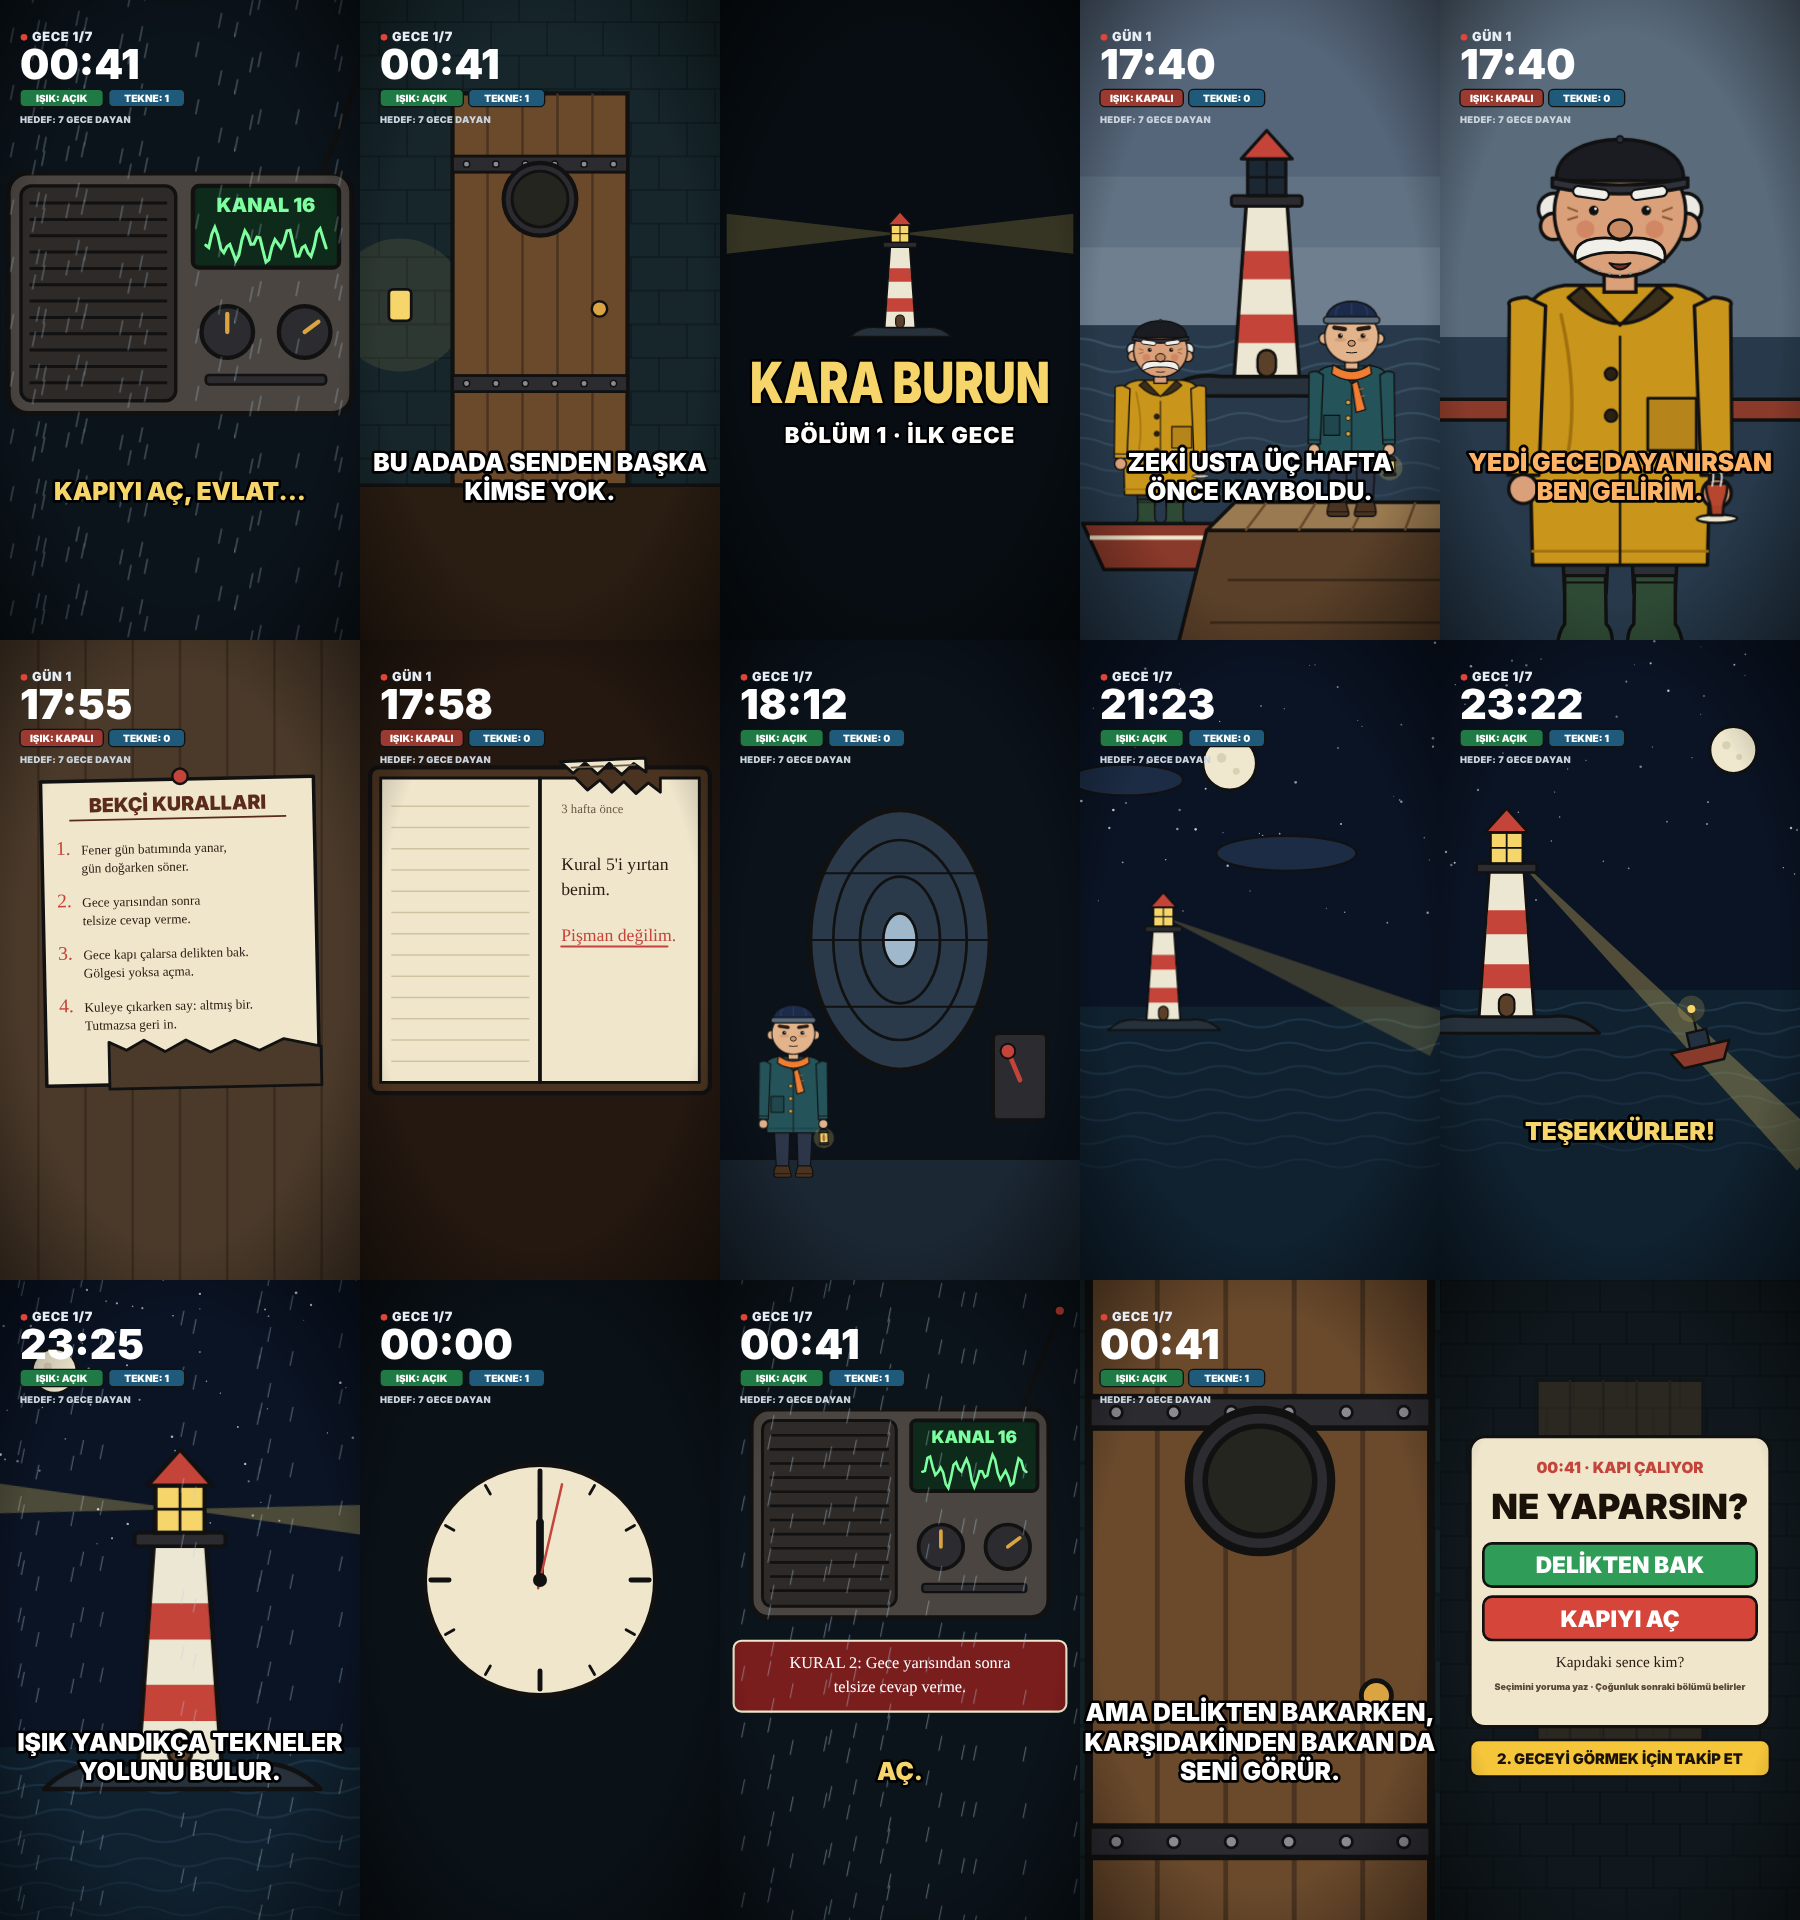
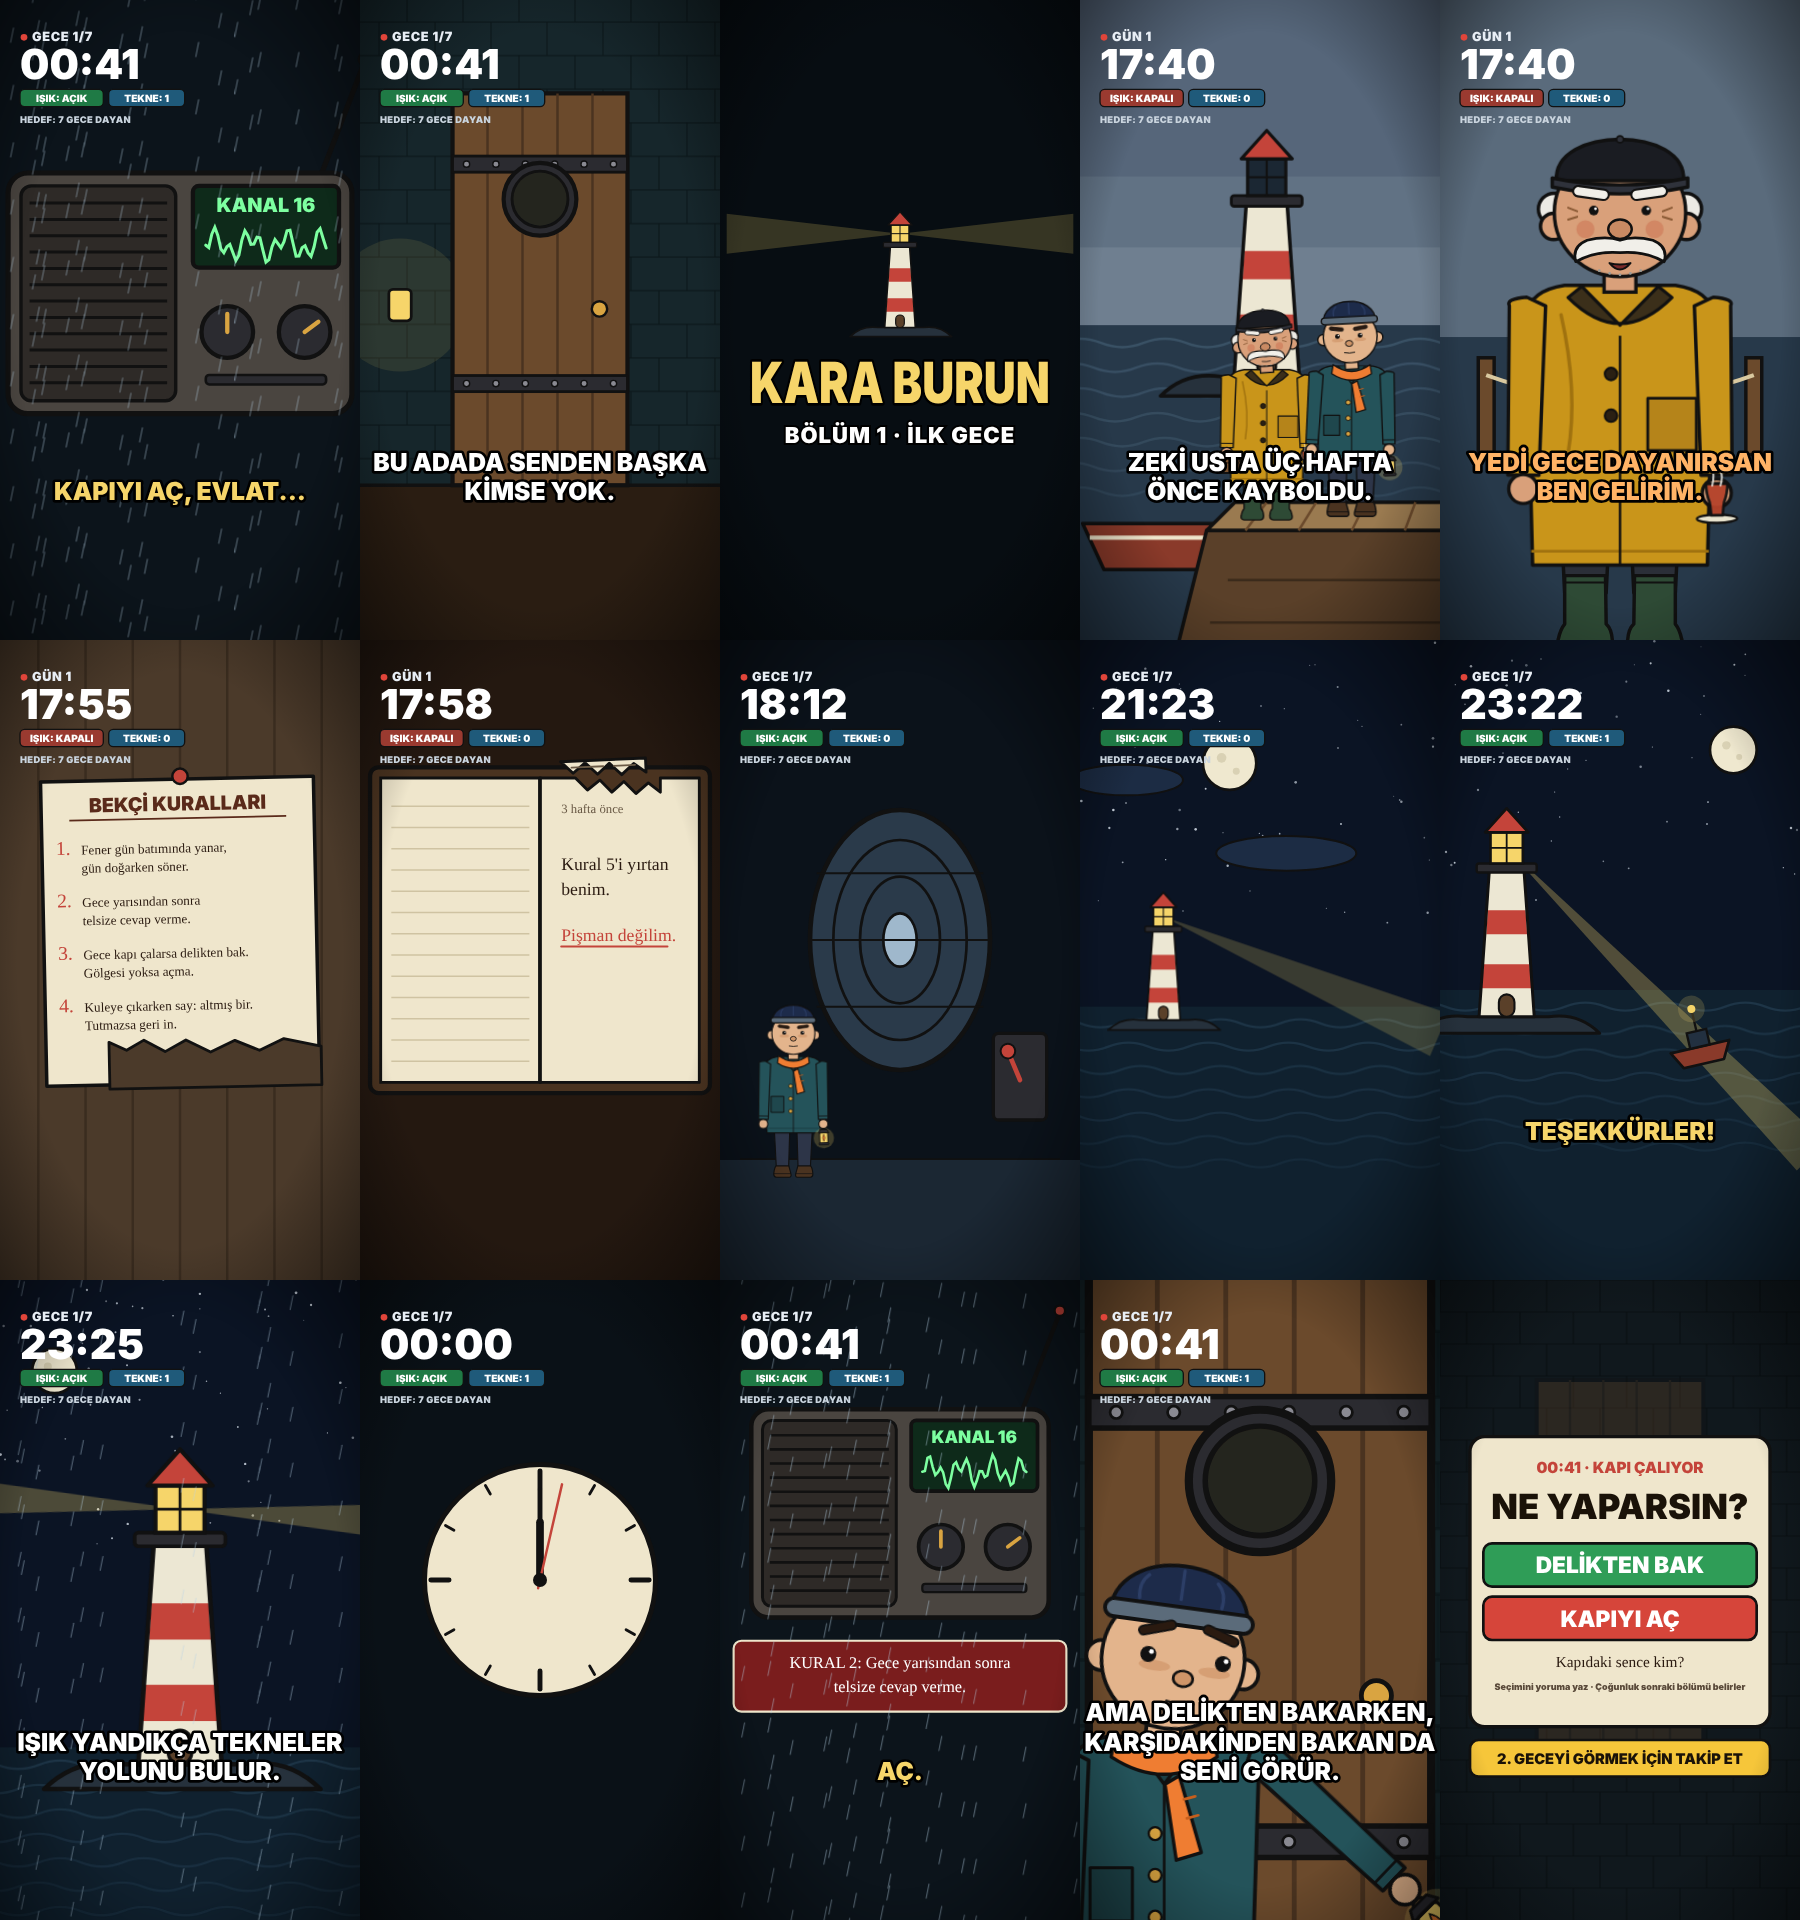
Kara Burun Bölüm 1: karakter pozları (Rigs.poz), Rıza iskeleye yürür, bekçi kapıya döner, deliğde Gölgesiz yüzü
Claude-Session: https://claude.ai/code/session_01LL2aFc3kDNuq4S6Wc9xmYN

diff --git a/story/bolum-01/sahne-cizim.js b/story/bolum-01/sahne-cizim.js
@@ -4,6 +4,8 @@
 const S=(window.BOLUM=window.BOLUM||{sahne:{}}).sahne,$=id=>document.getElementById(id),P=Cz.P;
 const clamp=(x,a,b)=>Math.max(a,Math.min(b,x)),fade=(id,lt,t0,d)=>{const e=$(id);if(e)e.setAttribute('opacity',clamp((lt-t0)/(d||.35),0,1))};
 const ease=x=>x<0?0:x>1?1:x*x*(3-2*x);
+/* anahtar kare ara değeri: K=[[t,{alan:değer}],…]; sayılar yumuşak geçer, metin/bool alanlar sonraki karede değişir */
+const kf=(K,t)=>{if(t<=K[0][0])return Object.assign({},K[0][1]);for(let i=1;i<K.length;i++)if(t<=K[i][0]){const[t0,a]=K[i-1],[t1,b]=K[i],u=ease((t-t0)/(t1-t0)),o={};Object.keys(b).forEach(k=>{const av=a[k]!==undefined?a[k]:b[k];o[k]=typeof b[k]==='number'?av+(b[k]-av)*u:(u>=1?b[k]:av)});return o}return Object.assign({},K[K.length-1][1])};
 const stars=(n,seed,ymax)=>{const r=Cz.rng(seed);let s='<g fill="#dfe8f2">';for(let i=0;i<n;i++)s+=`<circle cx="${(r()*1080).toFixed(0)}" cy="${(r()*ymax).toFixed(0)}" r="${(1.5+r()*2.5).toFixed(1)}" opacity="${(.4+r()*.5).toFixed(2)}"/>`;return s+'</g>'};
 const knock=(lt,ts,id,cx,cy,glow)=>{let dx=0,gl=.12;ts.forEach(t=>{const d=lt-t;if(d>0&&d<.3){dx+=Math.sin(d*70)*9*(1-d/.3);gl=Math.max(gl,.6*(1-d/.3))}});const k=$(id);if(k)k.setAttribute('transform',`translate(${cx+dx} ${cy})`);const e=$(glow);if(e)e.setAttribute('opacity',gl)};
 
@@ -25,21 +27,33 @@ S[3]={
   Cz.txt(540,1330,'BÖLÜM 1 · İLK GECE',{size:66,fill:'#fff',anchor:'middle',extra:'stroke="#000" stroke-width="12" paint-order="stroke fill" letter-spacing="3"'})},
  hook(lt,sc,g){g.style.opacity=Math.min(1,lt/.25)*Math.min(1,(sc.sure-lt)/.25)}};
 
-/* S4: ada ve iskele, Rıza teknede, bekçi iskelede */
+/* S4: ada ve iskele; Rıza tekneden iskeleye çıkar, bekçiye bagajı verir */
+let rigR4,rigB4;
 S[4]={zoom:[1,1.1,560,1050],
  ciz(g){
   g.innerHTML=Cz.duz('#56667a')+`<rect y="560" width="1080" height="420" fill="#6b7b8c" opacity=".55"/><rect y="760" width="1080" height="220" fill="#7d8c9b" opacity=".5"/>`+Cz.sea(980,'#27394a','#4e6b82')+Cz.tower(560,1180,1.0,false);
-  Rigs.reis(g,{x:260,y:1052,s:.4});
   g.insertAdjacentHTML('beforeend',`<path d="M40 1540 L470 1540 L420 1670 L100 1670 Z" fill="#8a3a2a" stroke="#111" stroke-width="10" stroke-linejoin="round"/><path d="M60 1580 H452" stroke="#efe6cc" stroke-width="12"/>
    <path d="M470 1480 L1080 1480 L1080 1560 L390 1560 Z" fill="#9a7a50" stroke="#111" stroke-width="10" stroke-linejoin="round"/><path d="M390 1560 L1080 1560 L1080 1920 L300 1920 Z" fill="#5a4029" stroke="#111" stroke-width="10" stroke-linejoin="round"/>
    <path d="M560 1480 L500 1560 M700 1480 L650 1560 M840 1480 L800 1560 M980 1480 L950 1560" stroke="#6b4a2c" stroke-width="7"/><path d="M450 1700 H1080 M400 1820 H1080" stroke="#3a2a1b" stroke-width="7"/>`);
-  Rigs.bekci(g,{x:800,y:1012,s:.4});
+  rigR4=Rigs.reis(g,{x:0,y:0,s:.4});rigB4=Rigs.bekci(g,{x:0,y:0,s:.4});
+  g.insertAdjacentHTML('beforeend','<g id="bag4"><rect x="-44" y="-32" width="88" height="64" rx="16" fill="#7a5230" stroke="#111" stroke-width="7"/><path d="M-26 -32 Q0 -62 26 -32" fill="none" stroke="#111" stroke-width="7"/><path d="M-44 -4 H44" stroke="#4a3320" stroke-width="6"/></g>');
+ },
+ hook(lt){
+  /* Rıza: 0-3 sn teknede, 3-5,4 sn iskeleye yürür, sonra bekçiye bagajı verir */
+  const u=ease((lt-3)/2.4),x=260+300*u,y=1042-20*ease((x-400)/90);
+  rigR4.parentNode.setAttribute('transform',`translate(${x} ${y}) scale(.4)`);
+  Rigs.poz(rigR4,{walk:lt>3&&lt<5.4,bas:lt>5.4?-4:0});
+  const r=ease((lt-5.5)/.6);
+  rigB4.parentNode.setAttribute('transform','translate(800 1012) scale(.4)');
+  Rigs.poz(rigB4,{kolL:38*r,bas:lt>5.5?-3:0,bakis:lt>5.5?-10:0});
+  const bx0=x-110,by0=y+350,k=ease((lt-5.6)/.9);
+  $('bag4').setAttribute('transform',`translate(${bx0+(697-bx0)*k} ${by0+(1362-by0)*k-70*Math.sin(Math.PI*k)}) scale(.8)`)
  }};
 
 /* S5: Reis Rıza konuşuyor */
 let rigR;
 S[5]={zoom:[1,1.06,540,700],
- ciz(g){g.innerHTML=Cz.duz('#5a6b7c')+`<rect y="1000" width="1080" height="920" fill="#27394a"/><rect y="1180" width="1080" height="60" fill="#8a3a2a" stroke="#111" stroke-width="10"/>`;rigR=Rigs.reis(g,{x:540,y:640,s:1})},
+ ciz(g){g.innerHTML=Cz.duz('#5a6b7c')+`<rect y="1000" width="1080" height="920" fill="#27394a"/><g stroke="#111" stroke-width="10"><rect x="130" y="1060" width="46" height="280" fill="#6b4a2c"/><rect x="904" y="1060" width="46" height="280" fill="#6b4a2c"/></g><path d="M153 1110 Q540 1250 927 1110" fill="none" stroke="#d9c9a0" stroke-width="12"/>`;rigR=Rigs.reis(g,{x:540,y:640,s:1})},
  agiz(v){Rigs.mouth(rigR,v)}};
 
 /* S6: kural kâğıdı */
@@ -115,11 +129,17 @@ S[13]={zoom:[1,1.1,540,700],
   <g id="bn13" opacity="0"><rect x="70" y="1060" width="940" height="200" rx="22" fill="#7a1d1d" stroke="#efe6cc" stroke-width="6"/>`+Cz.txt(540,1136,'KURAL 2: Gece yarısından sonra',{size:46,fill:'#fff',anchor:'middle',cls:'hand',extra:'font-weight="700"'})+Cz.txt(540,1204,'telsize cevap verme.',{size:46,fill:'#fff',anchor:'middle',cls:'hand',extra:'font-weight="700"'})+`</g>`+Cz.rain(18,21)},
  hook(lt){$('r13w').setAttribute('d',Cz.dalga(60,340,-112,46,lt+3));const e=$('bn13');e.setAttribute('opacity',clamp((lt-2.4)/.3,0,1));e.setAttribute('transform',`translate(0 ${(1-ease((lt-2.4)/.4))*60})`)}};
 
-/* S14: kapı ve delik, kamera deliğe yaklaşır */
+/* S14: kapı ve delik; bekçi kapıya döner, yaklaşır, feneri kaldırır; kamera deliğe girer; deliğin içinde Gölgesiz yüzü */
+let rigB14;
+const bz=o=>Object.assign({x:230,bas:0,bakis:0,kolL:0,kolR:0,mood:'worried',walk:false},o);
+const B14=[[0,bz({})],[1.2,bz({})],[1.5,bz({bas:7,bakis:28,kolL:14,mood:'scared'})],[2.6,bz({bas:7,bakis:28,mood:'scared'})],[2.8,bz({bas:7,bakis:28,mood:'scared',walk:true})],[4.2,bz({x:400,bas:7,bakis:28,mood:'scared',walk:true})],[4.3,bz({x:400,bas:7,bakis:28,mood:'scared'})],[5.2,bz({x:400,bas:9,bakis:34,kolR:-55,mood:'scared'})],[8,bz({x:400,bas:9,bakis:34,kolR:-55,mood:'scared'})]];
 S[14]={zoom:[1,2.7,540,602],
  ciz(g){g.innerHTML=Cz.brick('#16262b','#0d181b')+`<rect y="1420" width="1080" height="500" fill="#2a1d12"/><path d="M0 1420H1080" stroke="#111" stroke-width="10"/>`+Cz.kapi(290,300,500,1120,'k14')+`<circle id="dl14" cx="540" cy="602" r="76" fill="#e8c76a" opacity=".12"/>
-  <g id="ey14" opacity="0"><circle cx="512" cy="604" r="15" fill="#f3f6f4"/><circle cx="568" cy="604" r="15" fill="#f3f6f4"/><circle cx="512" cy="604" r="4" fill="#111"/><circle cx="568" cy="604" r="4" fill="#111"/></g>`},
- hook(lt){knock(lt,[1.4,2.6,3.8],'k14',290,300,'dl14');fade('ey14',lt,6.6,.6)}};
+  <g id="ey14" opacity="0"><circle cx="512" cy="604" r="15" fill="#f3f6f4"/><circle cx="568" cy="604" r="15" fill="#f3f6f4"/><circle cx="512" cy="604" r="4" fill="#111"/><circle cx="568" cy="604" r="4" fill="#111"/></g><clipPath id="cp14"><circle cx="540" cy="602" r="80"/></clipPath><g id="fc14" clip-path="url(#cp14)" opacity="0"><rect x="450" y="512" width="180" height="180" fill="#0a0f14"/></g>`;
+  Rigs.golgesiz(g.querySelector('#fc14'),{x:540,y:610,s:.36});rigB14=Rigs.bekci(g,{x:230,y:862,s:.55,mood:'worried'})},
+ hook(lt){knock(lt,[1.4,2.6,3.8],'k14',290,300,'dl14');
+  const p=kf(B14,lt);rigB14.parentNode.setAttribute('transform',`translate(${p.x} 862) scale(.55)`);Rigs.poz(rigB14,p);
+  const face=lt>=7.0&&lt<7.6;$('fc14').setAttribute('opacity',face?1:0);$('ey14').setAttribute('opacity',face?0:clamp((lt-6.0)/.5,0,1)*.9)}};
 
 /* S15: oylama kartı */
 S[15]={

diff --git a/sablon/rigs.js b/sablon/rigs.js
@@ -134,6 +134,18 @@ root.Rigs={
  bekci:(p,o)=>{o=o||{};const g=make(p,BEKCI,o.x,o.y,o.s,'karakter bekci '+(o.anim||''));g.setAttribute('data-mood',o.mood||'calm');return g},
  reis:(p,o)=>{o=o||{};const g=make(p,REIS,o.x,o.y,o.s,'karakter reis '+(o.anim||''));g.setAttribute('data-mood',o.mood||'calm');return g},
  golgesiz:(p,o)=>{o=o||{};const g=make(p,GOLGESIZ,o.x,o.y,o.s,'karakter golgesiz '+(o.anim||''));g.setAttribute('data-mood',o.mood||'calm');return g},
- mouth:(g,v)=>{g.querySelectorAll('.m').forEach(e=>e.classList.toggle('on',+e.dataset.v===v))}
+ mouth:(g,v)=>{g.querySelectorAll('.m').forEach(e=>e.classList.toggle('on',+e.dataset.v===v))},
+ /* poz: Rigs.poz(rig,{bas:derece,bakis:px,kolL:derece,kolR:derece,mood,walk})
+    bas = başın eğilmesi, bakis = yüz özelliklerinin yana kayması (başın dönmesi hissi),
+    kolL/kolR = kolun omuzdan kalkması (kolR negatif: dışa/yukarı), mood = calm|worried|scared, walk = yürüme döngüsü */
+ poz:(g,o)=>{o=o||{};
+  const W=(sel)=>{const el=g.querySelector(sel);if(!el)return null;const p=el.parentNode;if(p&&p.classList&&p.classList.contains('pz'))return p;const w=document.createElementNS(ns,'g');w.setAttribute('class','pz');p.insertBefore(w,el);w.appendChild(el);return w};
+  const H=W('.k-head'),AL=W('.k-armL'),AR=W('.k-armR'),F=g.querySelector('.k-feat');
+  if(H)H.setAttribute('transform',`rotate(${o.bas||0} 0 190)`);
+  if(AL)AL.setAttribute('transform',`rotate(${o.kolL||0} -230 260)`);
+  if(AR)AR.setAttribute('transform',`rotate(${o.kolR||0} 230 260)`);
+  if(F)F.setAttribute('transform',`translate(${o.bakis||0} 0)`);
+  if(o.mood)g.setAttribute('data-mood',o.mood);
+  if(o.walk!==undefined)g.classList.toggle('walk',!!o.walk)}
 };
 })(typeof self!=='undefined'?self:this);
